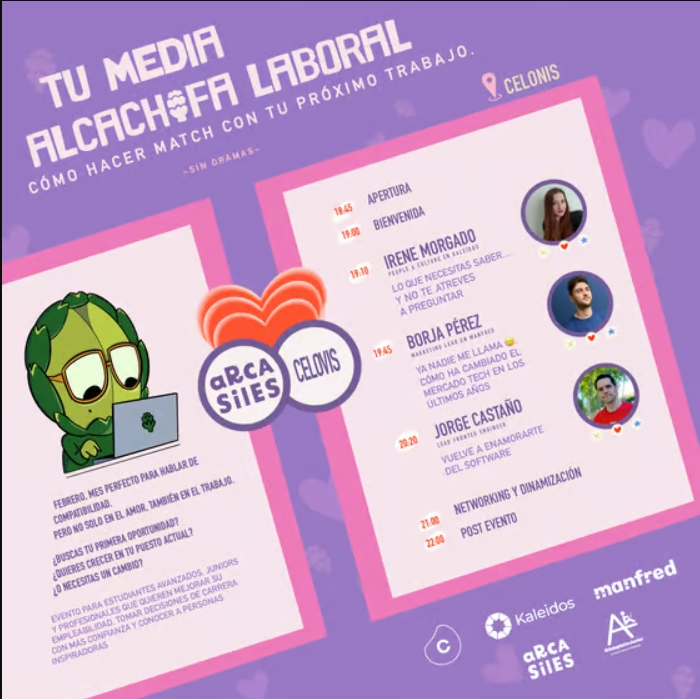
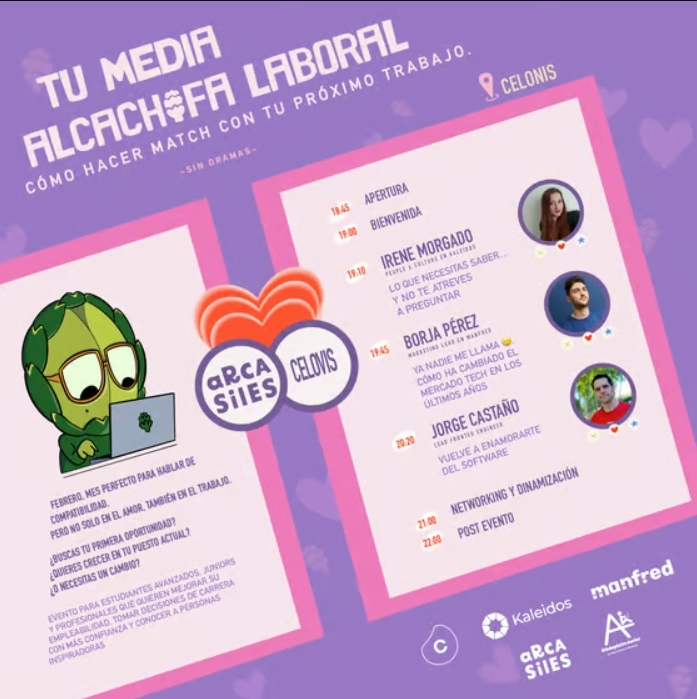
style: add heigh & width to cards imgs

diff --git a/src/event-card.js b/src/event-card.js
@@ -57,7 +57,11 @@ export class EventCard extends LitElement {
 
         .card-image {
         width: 100%;
-        object-fit: cover;}
+        height: 200px;
+        object-fit: cover;
+        border-radius: 20px;
+        
+        }
         `
     }
 }
